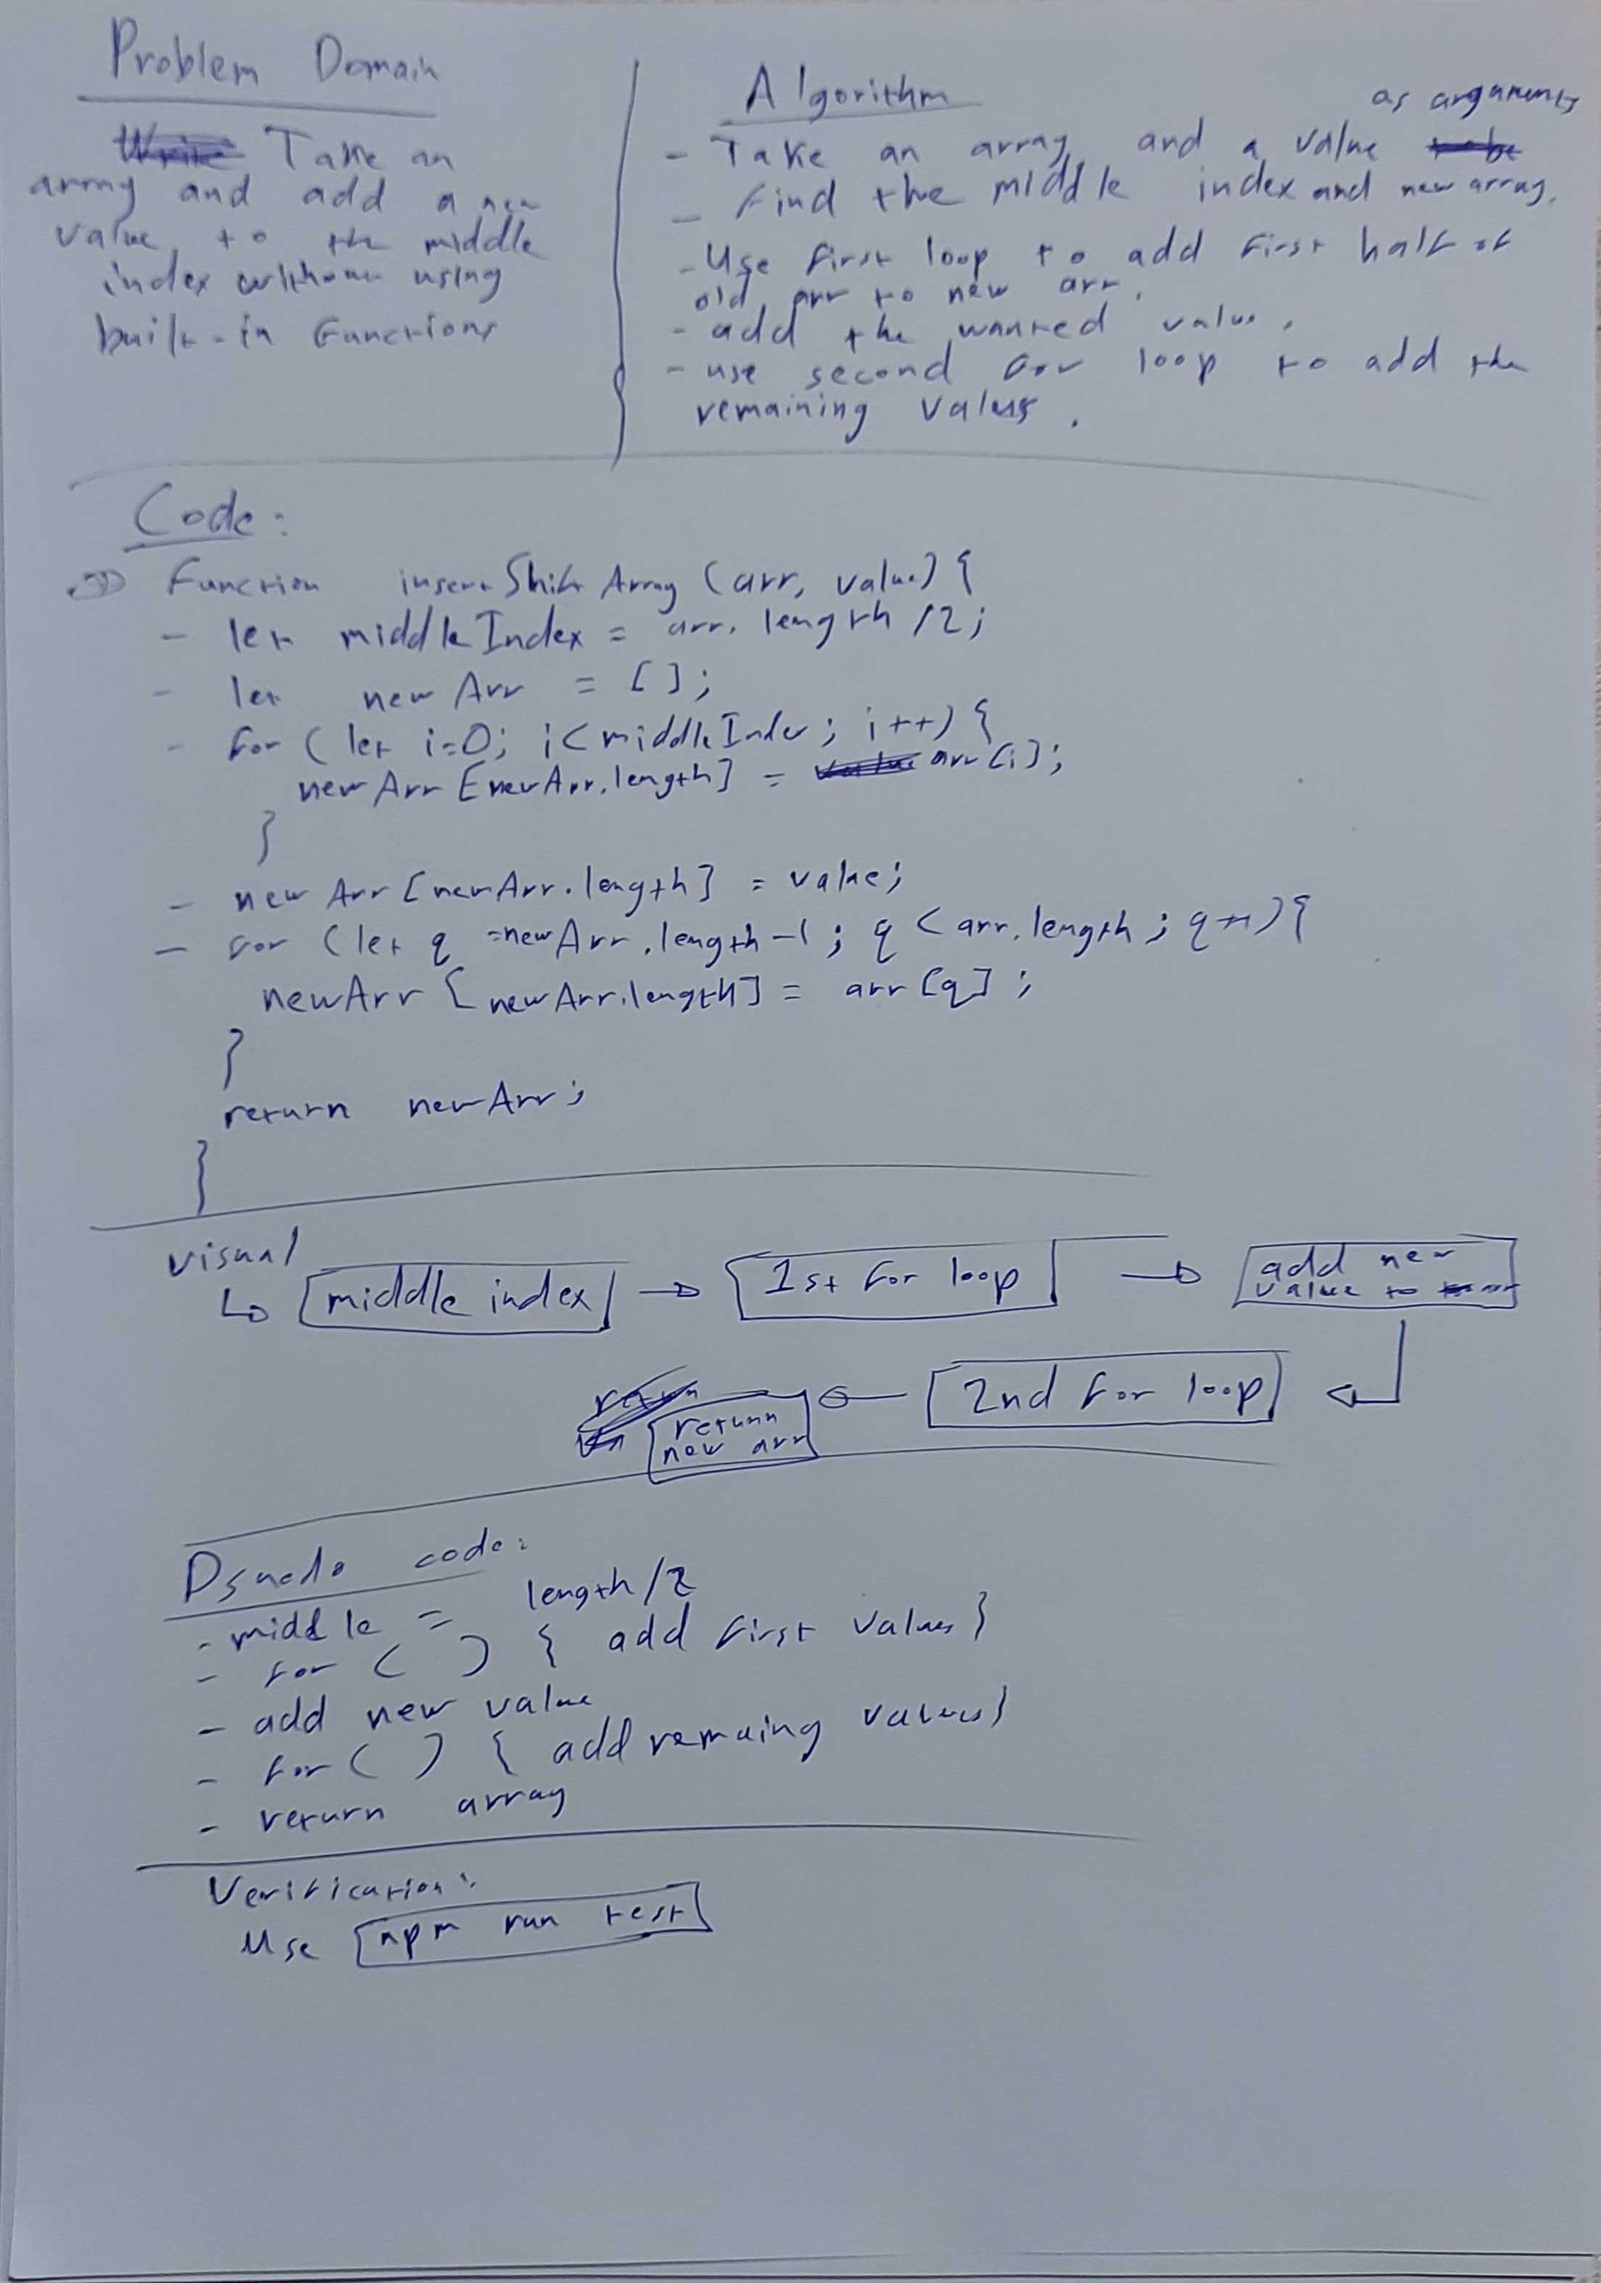
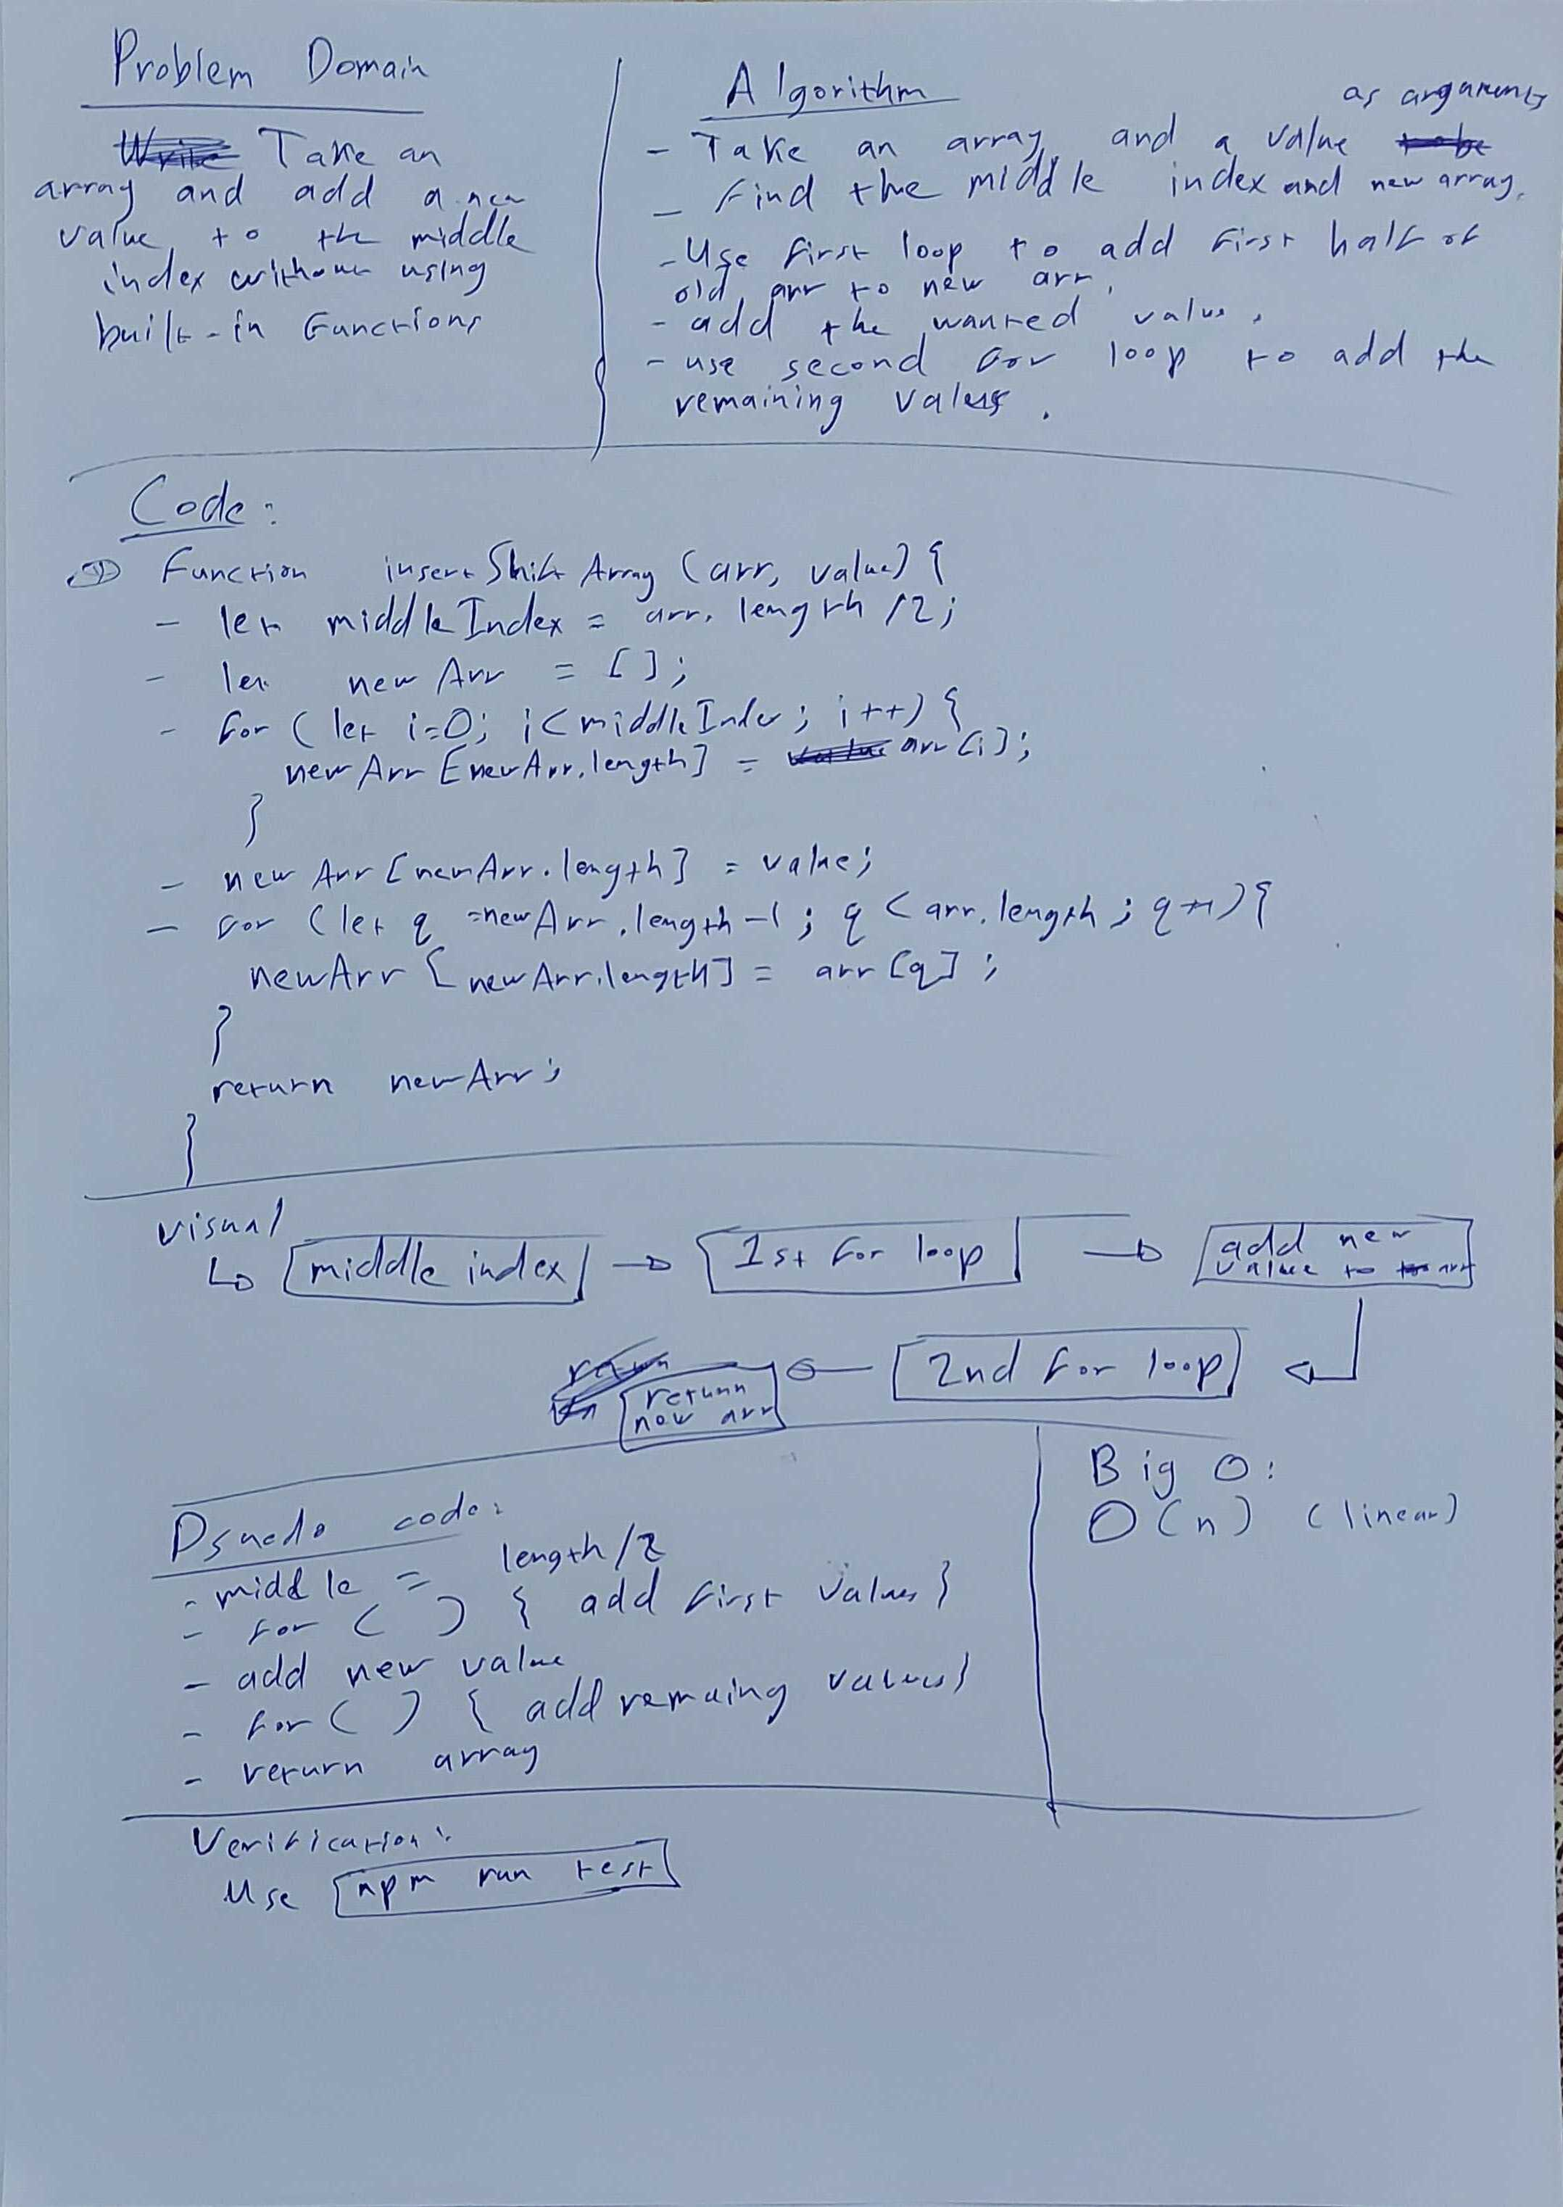
Added Big O Notation to array shift

diff --git a/challenges/arrayShift/README.md b/challenges/arrayShift/README.md
@@ -15,5 +15,7 @@ Write a function called `insertShiftArray` which takes in an array and the value
 * I added the new number value to the new array.
 * Used a new for loop to add the remaining values from the original array to the new array then return the new array.
 
+* Efficiency: Big O = O(n) "Linear"
+
 ## Solution
 ![Shift Array](../../assets/array-shift.jpg)
